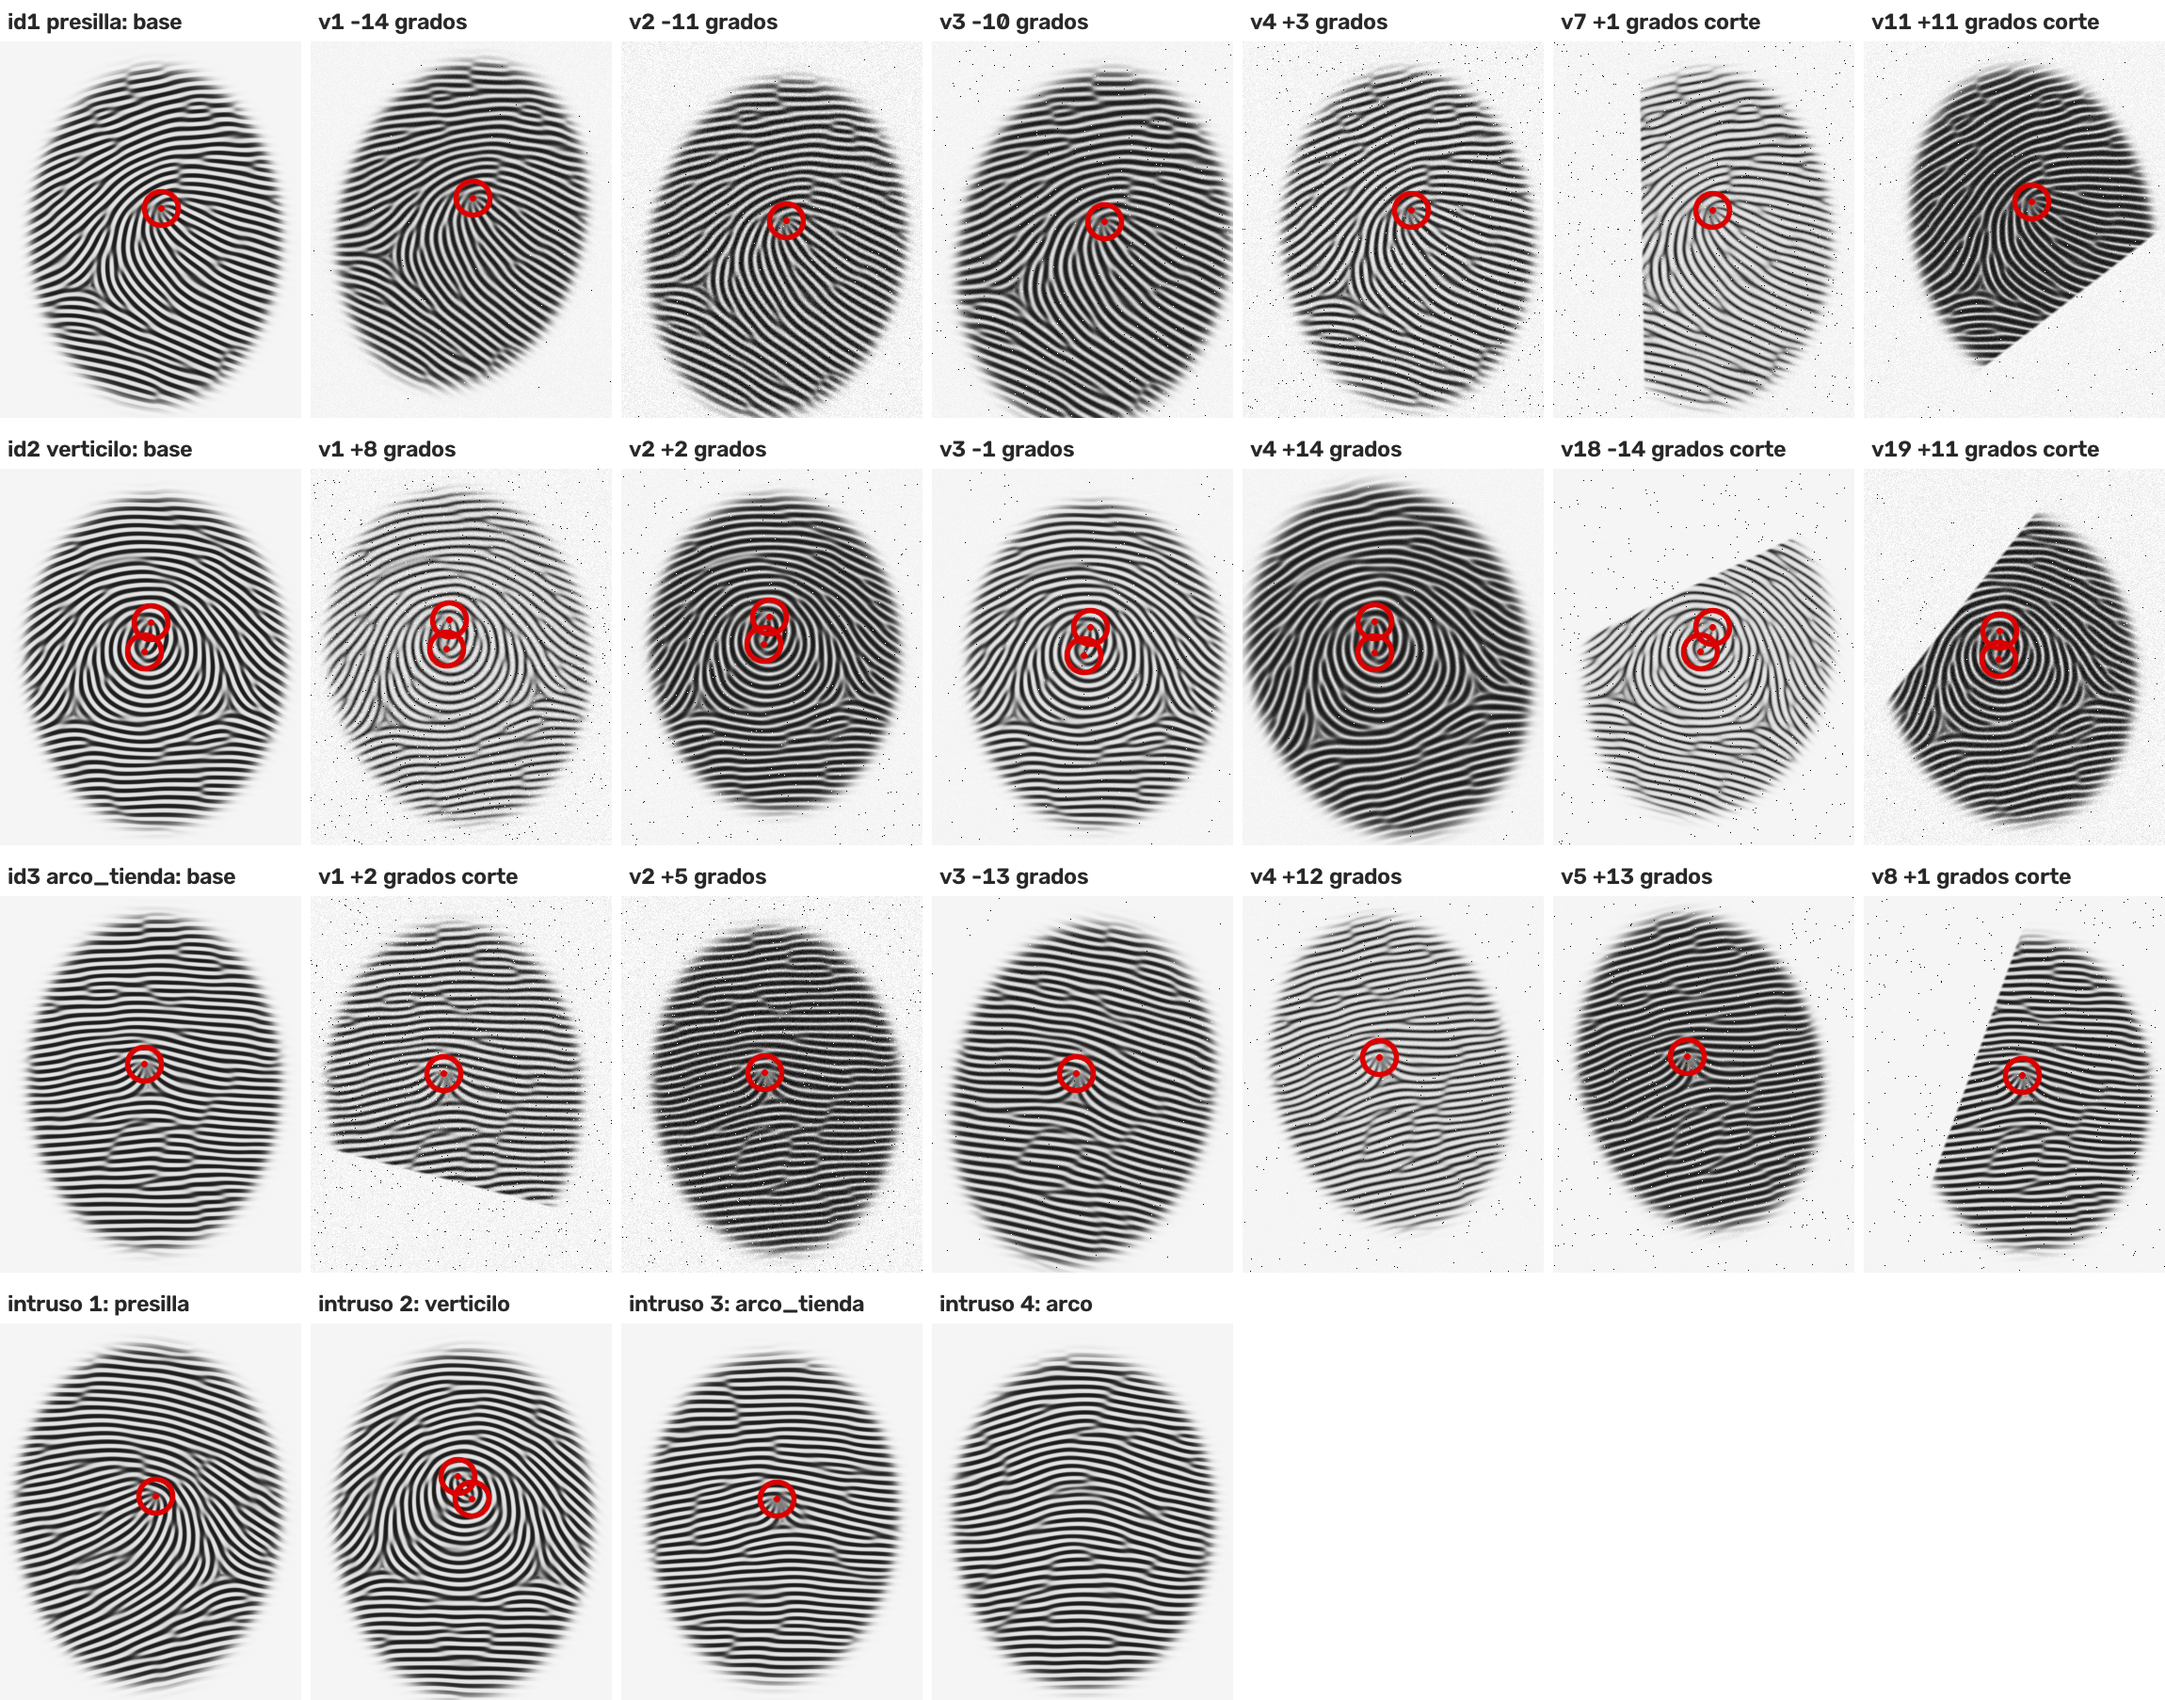
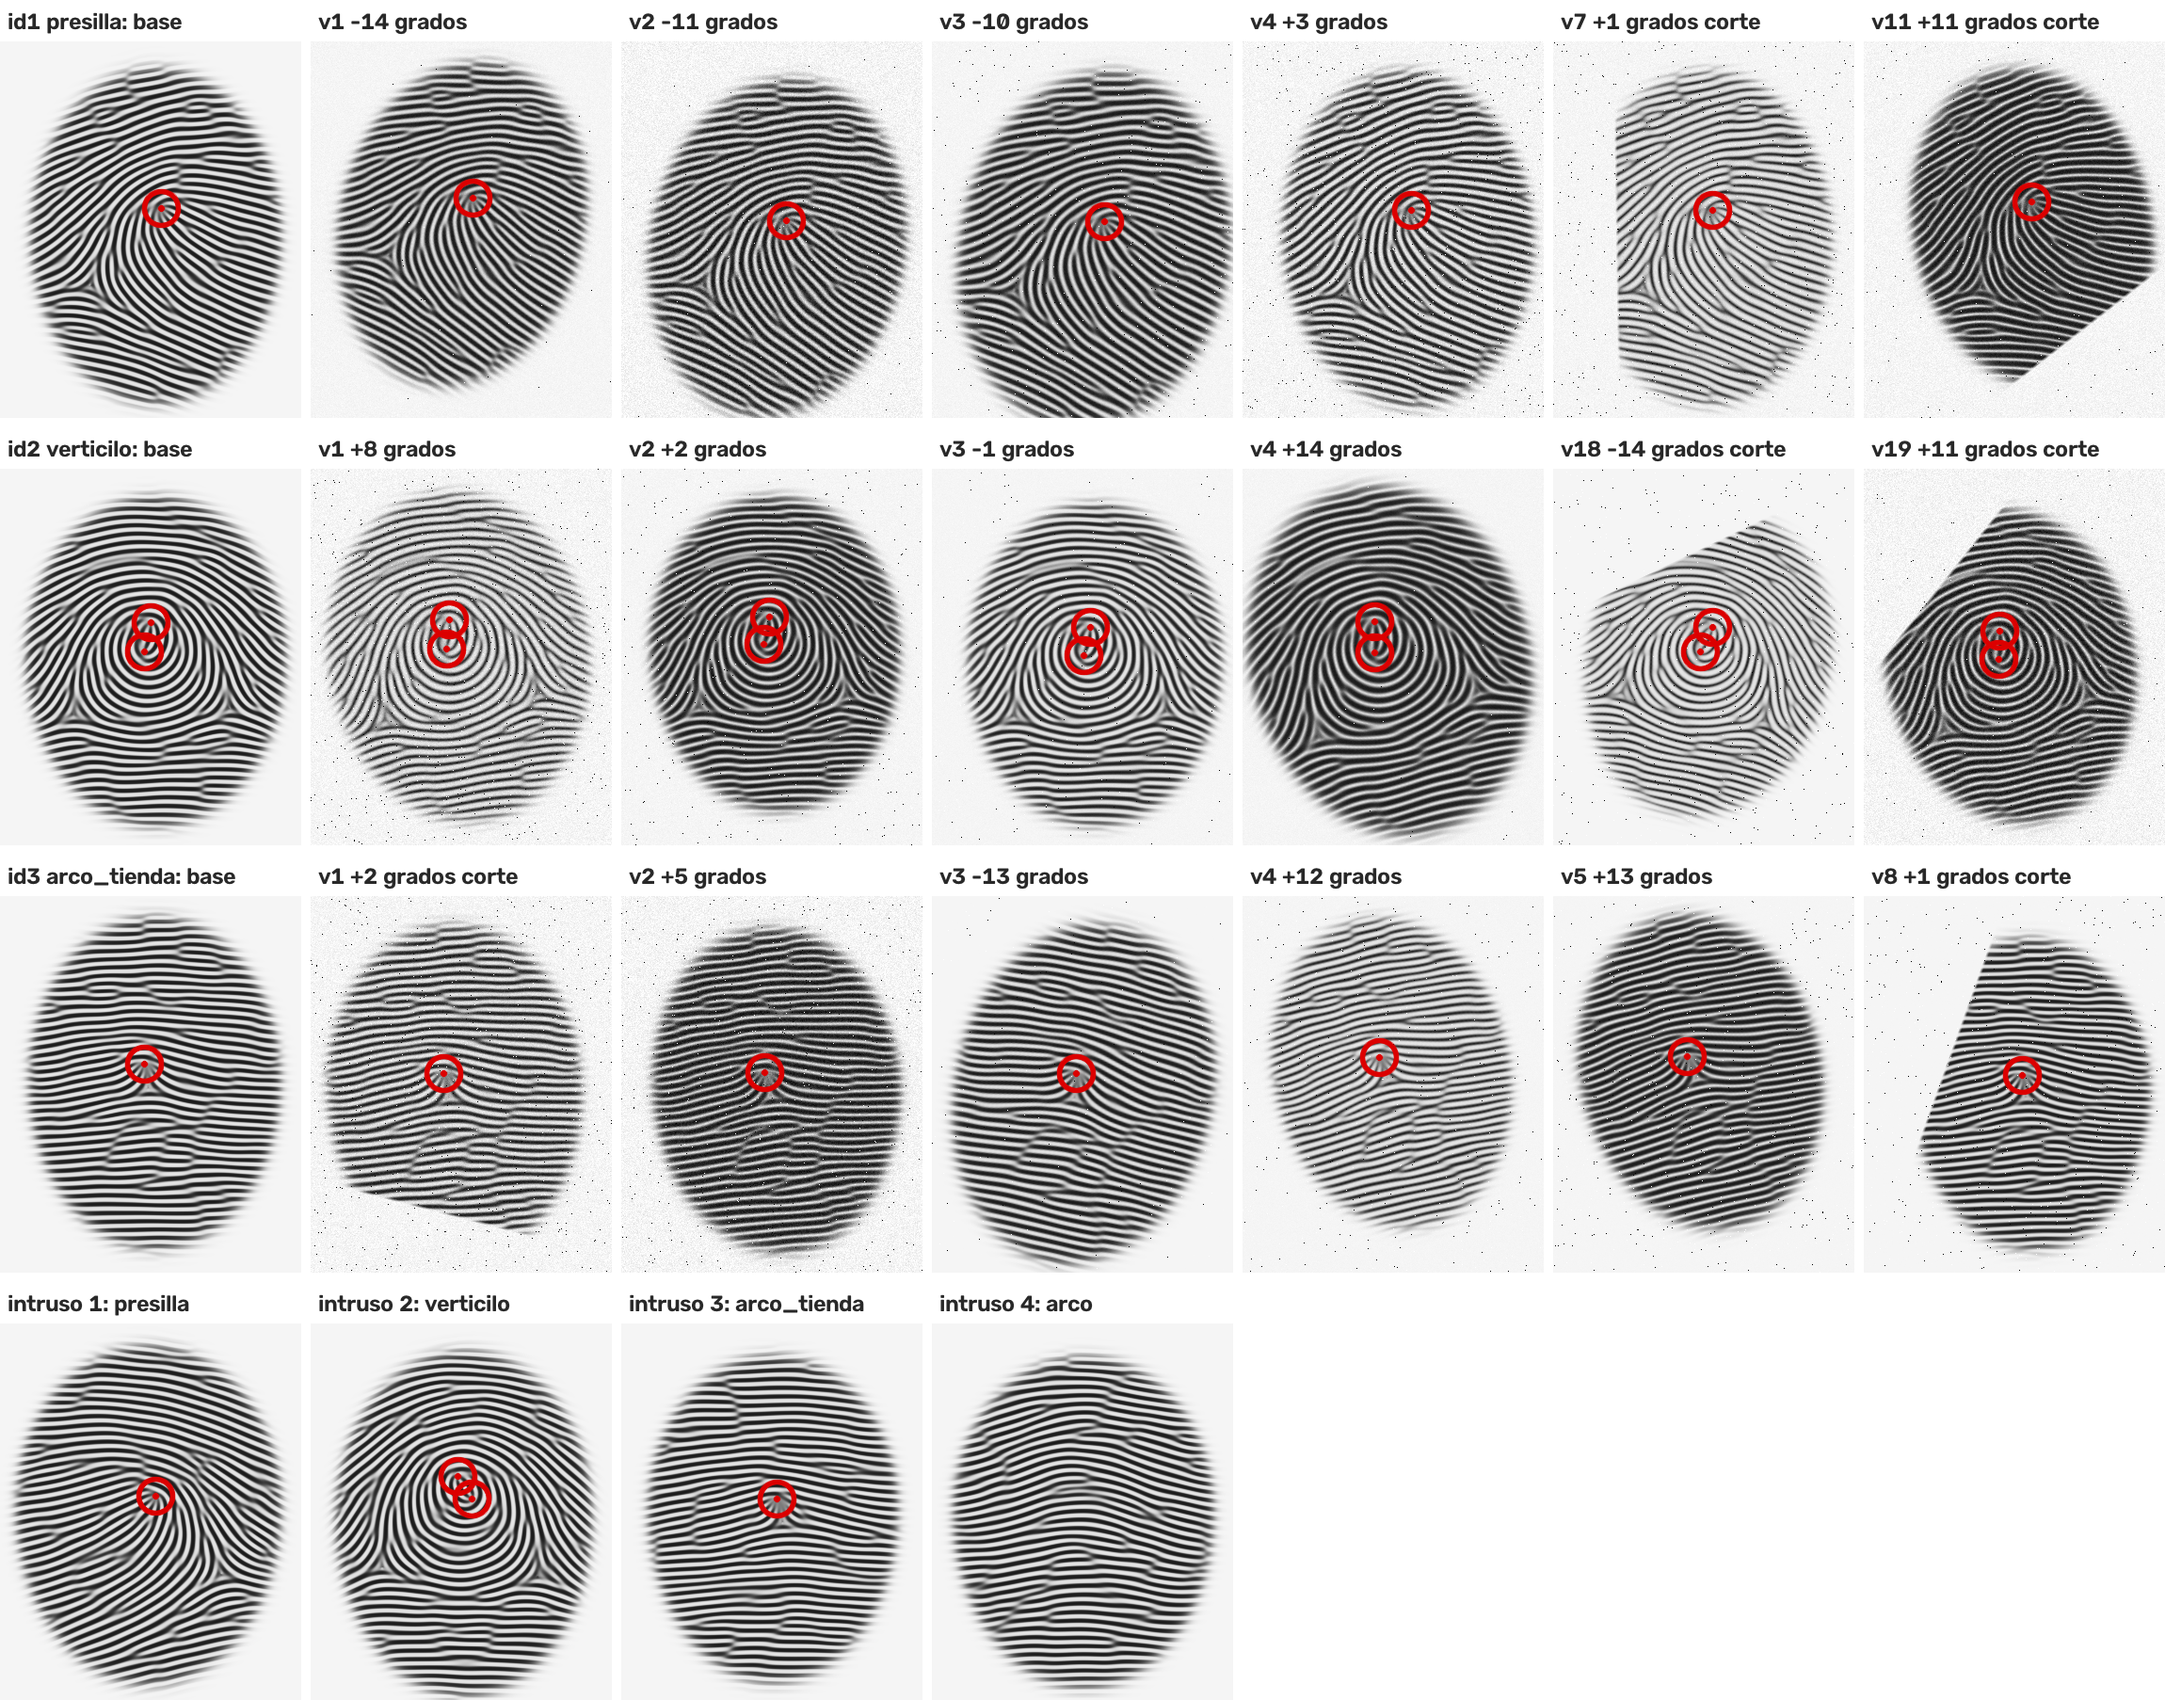
H1: corte máximo del 10 % (pedido del profesor)
El profesor pidió el 22/10 que a cada huella se le saque como mucho el 10 % de su
área: corte_periferico pasa de [0.15, 0.20] a [0.05, 0.10].

- config.yaml: solo esa línea.
- Contrato de la Fase 0, versión 1.1, y tests/test_setup.py: cambia solo ese valor
  (cambio explícito de un test congelado; queda en el Documento 2).
- Contrato de H1, versión 1.2: el criterio de 5.5 sobre las fracciones del test de
  corte nombra los extremos de corte_periferico en lugar de 0,15 y 0,20.
- Dataset regenerado con --sobrescribir (no está en Git): en metadatos.csv cambia
  solo corte_fraccion, en las 91 filas con corte (ahora entre 0,0502 y 0,0991); el
  resto de las columnas queda igual. Lámina docs/figuras/grilla_h1.png nueva.
- pytest: pasan los 545 tests de test_setup.py y test_h1.py (41 s) y la prueba de
  aceptación de H1 (57 s). Dataset y lámina en 72 s.

Claude-Session: https://claude.ai/code/session_01KbRiyPXxA3PUzm2Zn75Qum

diff --git a/tests/test_setup.py b/tests/test_setup.py
@@ -773,7 +773,7 @@ VALORES_FIJOS = {
     "huellas.variantes.rotacion_max_grados": 15,
     "huellas.variantes.traslacion_max_px": 15,
     "huellas.variantes.escala_max": 0.08,
-    "huellas.variantes.corte_periferico": [0.15, 0.20],
+    "huellas.variantes.corte_periferico": [0.05, 0.10],  # contrato 1.1 (antes [0.15, 0.20])
     "huellas.ventana_px": [250, 250],
     "huellas.periodo_crestas_px": [8, 10],
     "huellas.kmeans.k": 3,

diff --git a/docs/contratos/h1_generador.md b/docs/contratos/h1_generador.md
@@ -1,6 +1,6 @@
 # Contrato · H1 · Generador de huellas y dataset
 
-**Versión 1.1 · 22/10/2026** (la 1 es del 16/10/2026). **Cambios en la 1.1:** se suman las aclaraciones de cómo leen el contrato los tests (sección 7) y tres criterios en 5.4, 5.5 y 5.7, marcados con *(1.1)*. Los pidió el chat que escribió los tests y el cambio está anotado en el Documento 2.
+**Versión 1.2 · 22/10/2026** (la 1 es del 16/10/2026 y la 1.1, del 22/10/2026). **Cambio en la 1.2:** el corte de las variantes es como mucho del 10 % del área, porque lo pidió el profesor el 22/10: `corte_periferico` pasa de `[0.15, 0.20]` a `[0.05, 0.10]` (contrato de la Fase 0, versión 1.1), y el criterio de 5.5 sobre las fracciones del test de corte nombra los extremos de `corte_periferico` en lugar de 0,15 y 0,20. Está anotado en el Documento 2. **Cambios en la 1.1:** se suman las aclaraciones de cómo leen el contrato los tests (sección 7) y tres criterios en 5.4, 5.5 y 5.7, marcados con *(1.1)*. Los pidió el chat que escribió los tests y el cambio está anotado en el Documento 2.
 
 Es lo que verifica `tests/test_h1.py`. Los tests se escriben en otro chat solo a partir de este archivo y se congelan (commit) antes de implementar. Se apoya en el contrato de la Fase 0 (`config.yaml` y `src/config.cargar_config`). Si algo de acá cambia, se cambia de forma explícita y se anota en el Documento 2.
 
@@ -220,7 +220,7 @@ def generar_lamina(cfg: dict, salida: str | os.PathLike | None = None) -> Path:
 - Con parámetros completos, elástica incluida: evaluando `mapa_x` y `mapa_y` (interpolación bilineal) en cada posición real de la variante que quede a ≥ 10 px de los bordes, se vuelve a su posición en la base con un error ≤ 0,5 px. Es lo que detecta un desplazamiento elástico aplicado al revés.
 - `punto_referencia`: el núcleo si hay uno, el punto medio si hay dos y `None` en el arco.
 - Corte: con los mismos parámetros y la misma semilla de `rng`, la fracción de la máscara que se pierde al pasar de `corte_fraccion = 0` a `corte_fraccion = f` está en `f ± 0,02`, y el disco de 20 px de radio alrededor de cada núcleo queda entero dentro de la máscara con corte.
-- *(1.1)* Lado del corte: 0° quita la derecha y 90° la parte de abajo. Lo quitado es un semiplano del lado del ángulo guardado, y ese ángulo es el pedido más un múltiplo de 30°. El test de corte usa también `f = 0,40` (además de 0,15 y 0,20), porque con esas dos fracciones la regla de los 30 px nunca entra en juego.
+- *(1.1)* Lado del corte: 0° quita la derecha y 90° la parte de abajo. Lo quitado es un semiplano del lado del ángulo guardado, y ese ángulo es el pedido más un múltiplo de 30°. El test de corte usa también `f = 0,40` (además de los extremos de `corte_periferico`), porque con esas fracciones la regla de los 30 px nunca entra en juego.
 - Presión (el resto como en `SIN_CAMBIOS`): la fracción de píxeles de la máscara por debajo de 128 crece con la presión. Con `+presion_max` es al menos 0,05 mayor que con 0, y con `−presion_max`, al menos 0,05 menor.
 - Ruido (el resto como en `SIN_CAMBIOS`): con `ruido_sigma = 10`, el desvío de la diferencia con la base dentro de la máscara está entre 7 y 13. Con `sal_pimienta = 0,02`, la fracción de píxeles en 0 o 255 que no lo estaban en la base está entre 0,01 y 0,03.
 - Determinismo: la misma base, los mismos parámetros y un `rng` con la misma semilla dan una `imagen` idéntica.

diff --git a/docs/contratos/fase0_setup.md b/docs/contratos/fase0_setup.md
@@ -1,6 +1,8 @@
 # Contrato · Fase 0 · Setup del proyecto
 
-**Versión 1 · 16/10/2026.** Es lo que verifica `tests/test_setup.py`. Los tests se escriben en otro chat solo a partir de este archivo y se congelan (commit) antes de implementar. Si algo de acá cambia, se cambia de forma explícita y se anota en el Documento 2.
+**Versión 1.1 · 22/10/2026** (la 1 es del 16/10/2026). **Cambio en la 1.1:** `huellas.variantes.corte_periferico` pasa de `[0.15, 0.20]` a `[0.05, 0.10]`, porque el profesor pidió el 22/10 que a cada huella se le saque como mucho el 10 % de su área. En `tests/test_setup.py` cambia solo ese valor; el cambio está anotado en el Documento 2.
+
+Es lo que verifica `tests/test_setup.py`. Los tests se escriben en otro chat solo a partir de este archivo y se congelan (commit) antes de implementar. Si algo de acá cambia, se cambia de forma explícita y se anota en el Documento 2.
 
 **Raíz del repo:** la carpeta que contiene `config.yaml`. En los tests: `RAIZ = Path(__file__).resolve().parents[1]`.
 
@@ -80,7 +82,7 @@ huellas:
     rotacion_max_grados: 15          # fijo
     traslacion_max_px: 15            # fijo
     escala_max: 0.08                 # fijo
-    corte_periferico: [0.15, 0.20]   # fijo
+    corte_periferico: [0.05, 0.10]   # fijo (1.1; antes [0.15, 0.20])
   ventana_px: [250, 250]             # fijo
   periodo_crestas_px: [8, 10]        # fijo
   kmeans:
